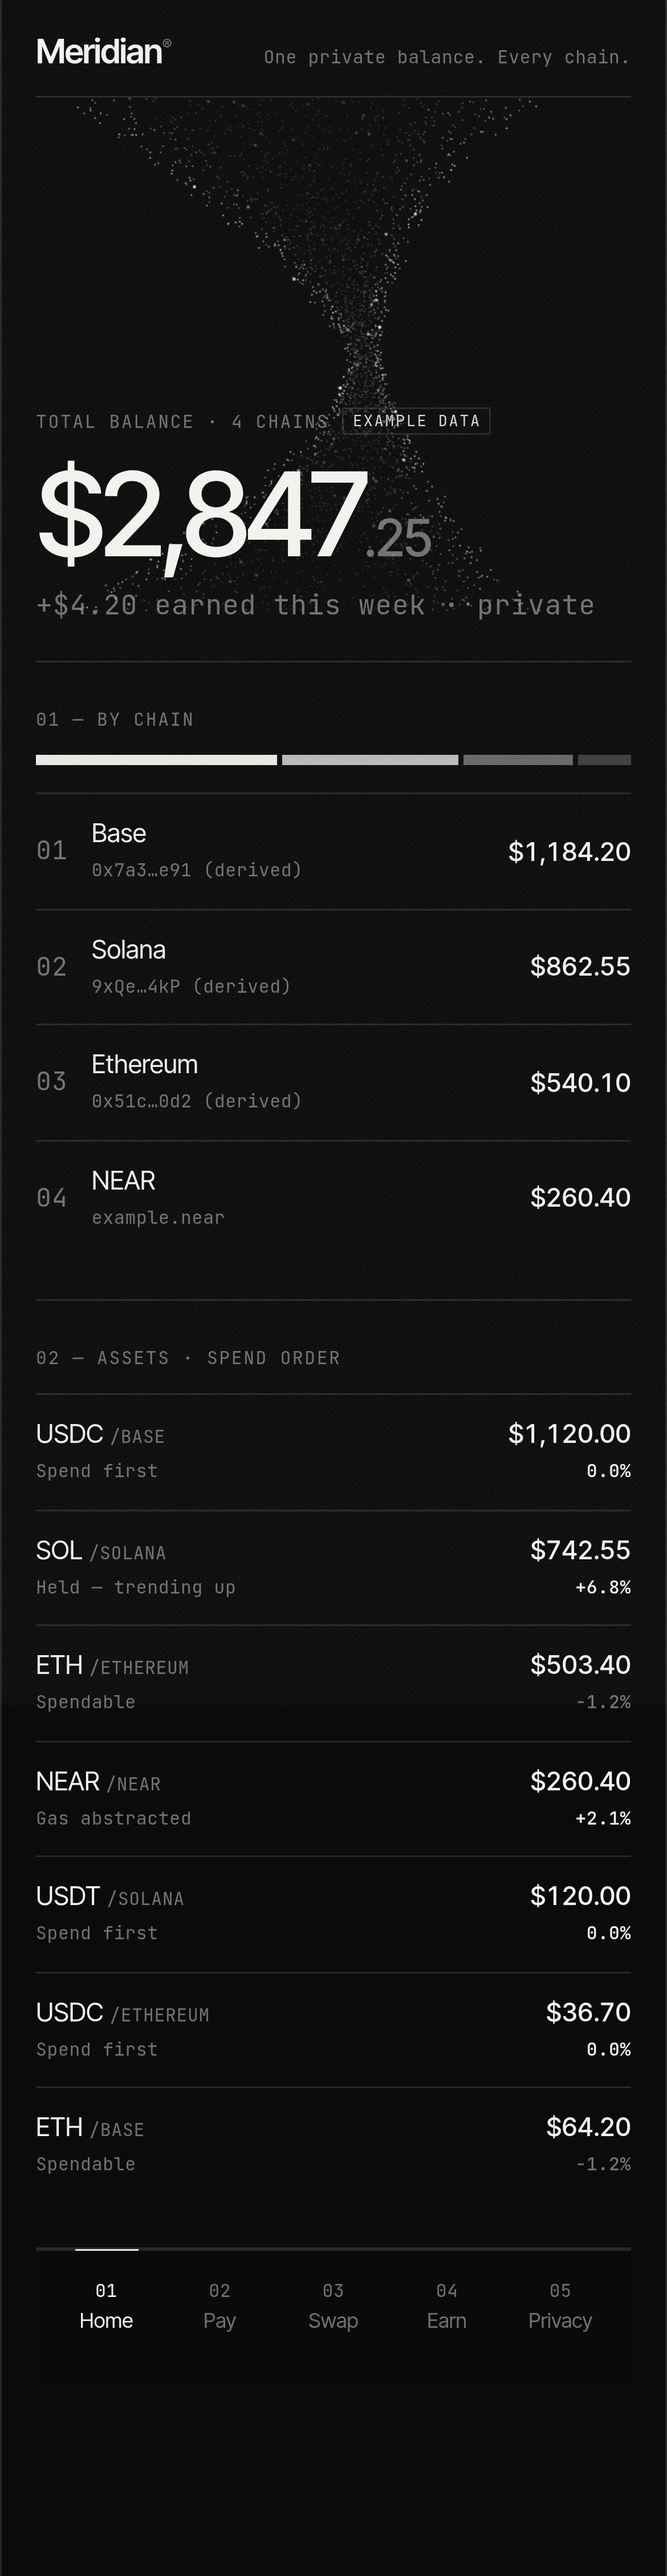
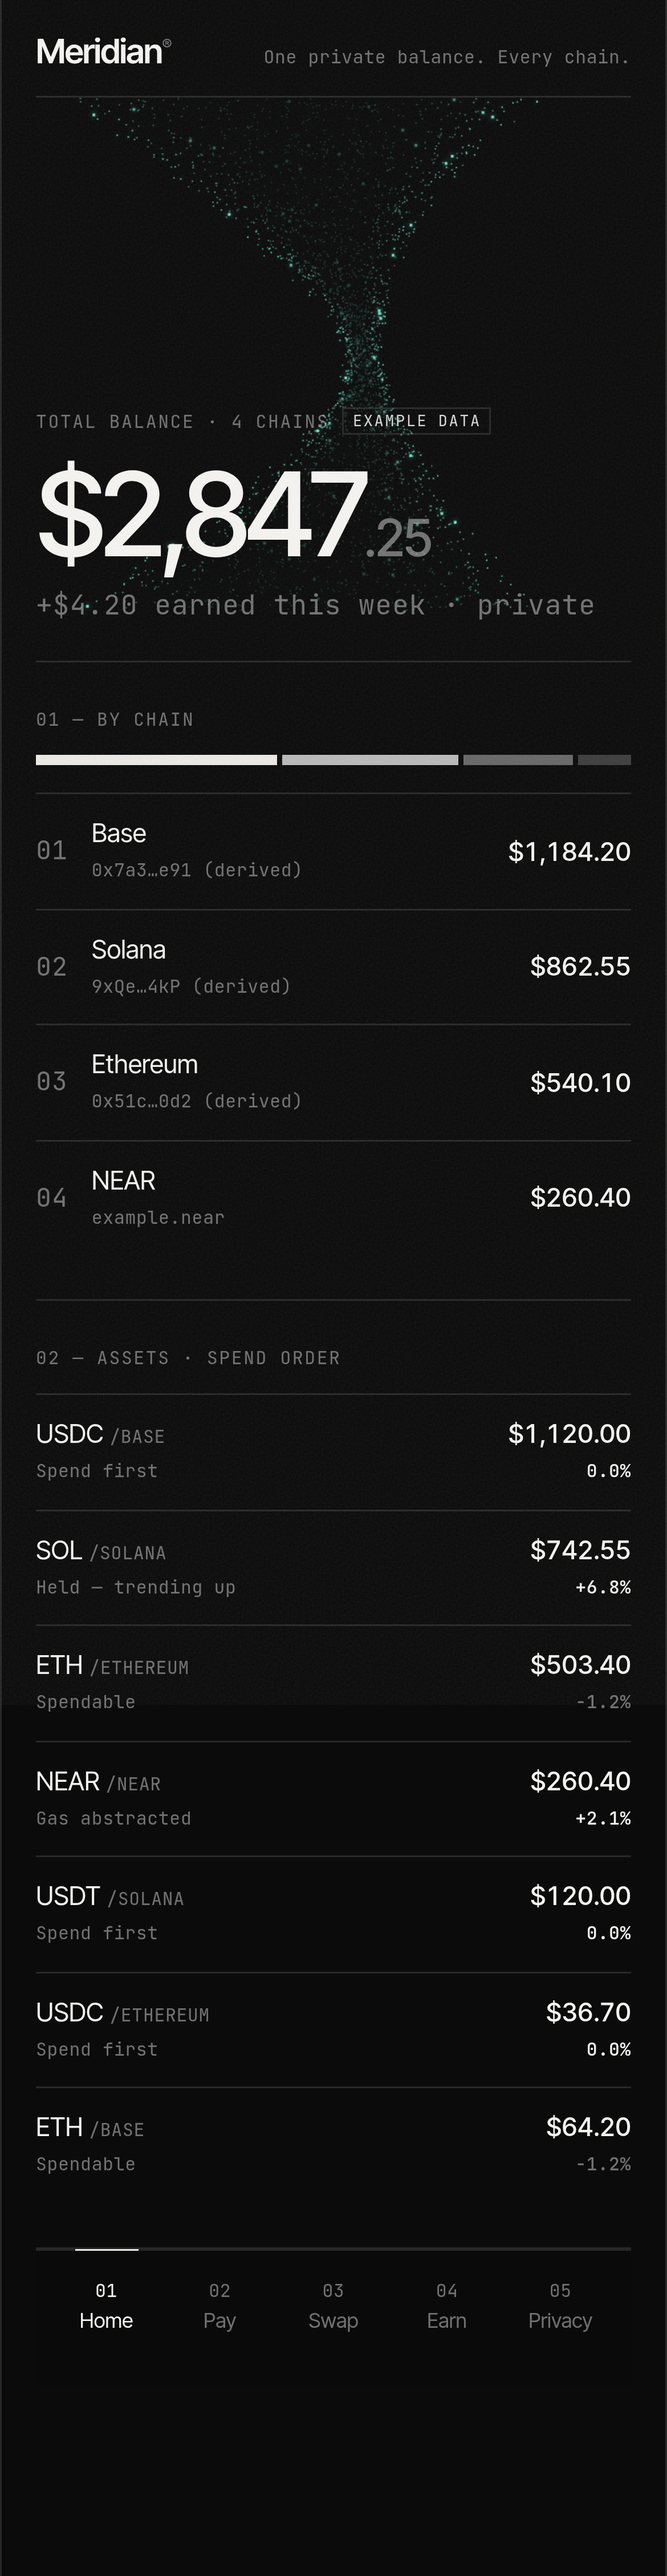
Particle dust in mint #7DF5D8 (particles only); refresh screenshots

Changed region(s): [[0.4308, 0.0937, 0.6154, 0.1874], [0.5846, 0.0625, 0.6462, 0.0937], [0.6462, 0.1874, 0.6769, 0.2186]]

diff --git a/app/src/Dust.tsx b/app/src/Dust.tsx
@@ -1,5 +1,5 @@
 import { useEffect, useRef } from 'react'
-// Flowing particle-dust hourglass / wave. White-grey only.
+// Flowing particle-dust hourglass / wave. Mint #7DF5D8 glow (particles only).
 export default function Dust({ height = 300 }: { height?: number }) {
   const ref = useRef<HTMLCanvasElement>(null)
   useEffect(() => {
@@ -22,8 +22,9 @@ export default function Dust({ height = 300 }: { height?: number }) {
         const yy = y
         const edge = Math.abs(p.v)
         const a = 0.18 + 0.8 * Math.pow(edge, 3) * (0.4 + p.r)
-        ctx.fillStyle = `rgba(236,234,229,${Math.min(a, 0.9)})`
+        ctx.fillStyle = `rgba(125,245,216,${Math.min(a, 0.9)})`
         const sz = p.r > 0.97 ? 1.6 : 0.8
+        ctx.shadowBlur = p.r > 0.9 ? 6 : 0; ctx.shadowColor = 'rgba(125,245,216,0.8)'
         ctx.fillRect(x, yy, sz, sz)
       }
       raf = requestAnimationFrame(draw)
